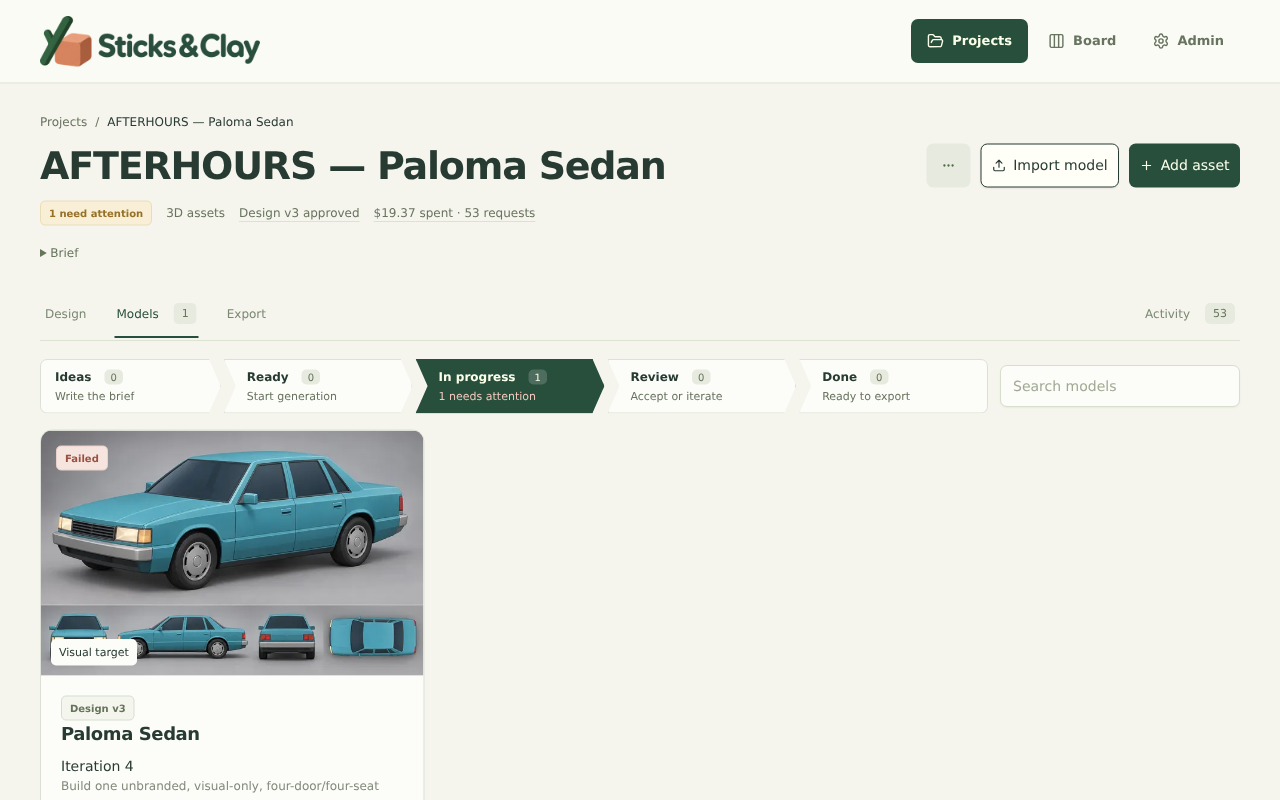
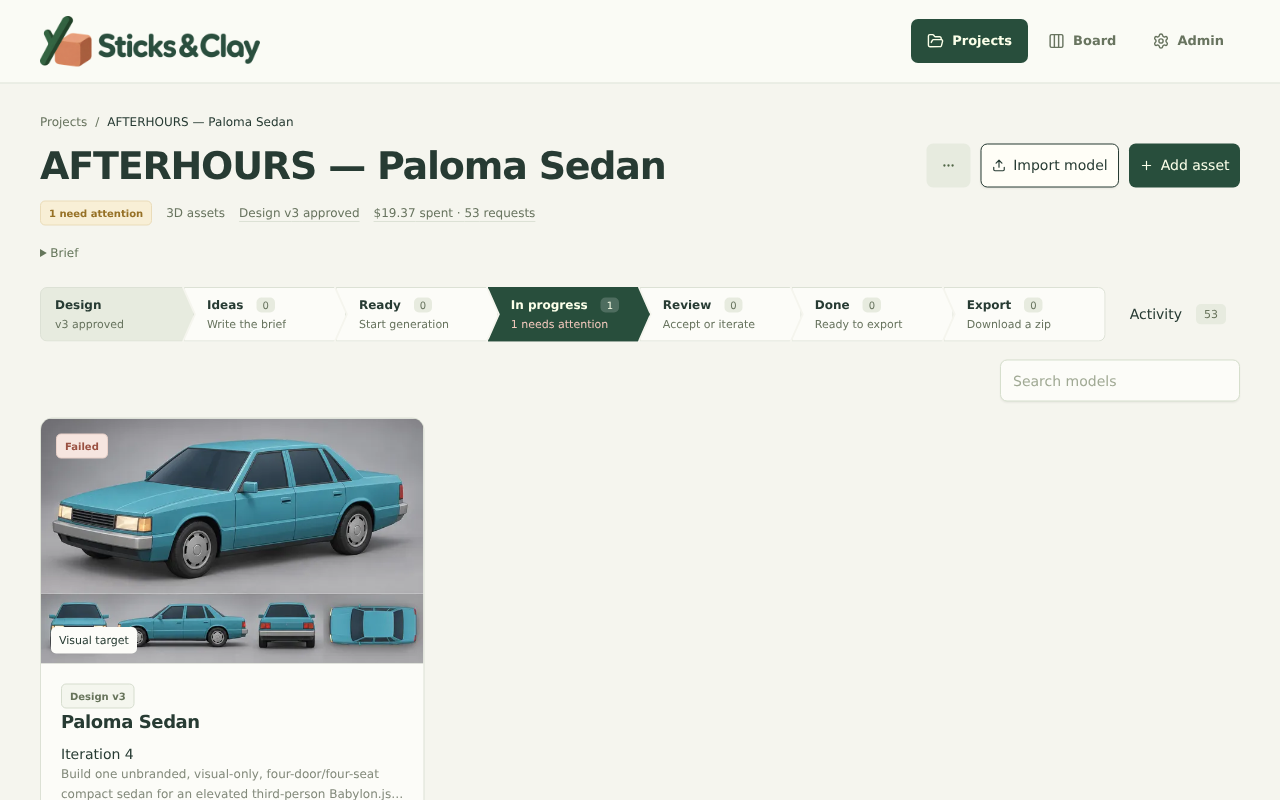
feat(workspace): make the strip the whole workflow
Design and Export join the stage steps so one left-to-right strip
replaces the tab row, with Activity as a button beside it. Steps nest
into each other, and the search field moves to its own row below.

diff --git a/src/routes/projects/$projectId/index.tsx b/src/routes/projects/$projectId/index.tsx
@@ -20,8 +20,8 @@ import { Alert, AlertDescription } from "@/components/ui/alert";
 import { Empty } from "@/components/ui/empty";
 import { Input } from "@/components/ui/input";
 import { Tabs, TabsList, TabsTrigger } from "@/components/ui/tabs";
-import { assetStage, boardStages, type BoardStage } from "@/lib/board";
-import { StageStrip } from "./-components/stage-strip";
+import { assetStage, boardStages, boardStageTitles, type BoardStage } from "@/lib/board";
+import { StageStrip, stageHints } from "./-components/stage-strip";
 import { WorkspaceSkeleton } from "@/components/loading";
 import { AssetImage } from "@/components/asset-image";
 import { LightboxProvider } from "@/components/image-lightbox";
@@ -40,19 +40,21 @@ import { failedBatchFor, pendingCollectionItems } from "./-lib/collection";
 import { History } from "./-components/history";
 import { queueKindLabels } from "@/lib/queue-view";
 
-const tabs = ["design", "assets", "export", "history"] as const;
+// The workflow from left to right, plus the activity log.
+const tabs = ["design", ...boardStages, "export", "history"] as const;
 export type ProjectTab = (typeof tabs)[number];
 const designViews = ["reference", "mockups", "materials"] as const;
 type DesignView = (typeof designViews)[number];
-type Search = { tab?: ProjectTab; view?: DesignView; stage?: BoardStage };
-// Earlier tab reworks: Style became Design; the Mockups, Materials, Ideas, Board, Models and Collection tabs became views and stages.
+type Search = { tab?: ProjectTab; view?: DesignView };
+// Earlier tab reworks: Style became Design; Mockups and Materials became design views; the asset tabs became stages.
 const legacyTabs: Record<string, Search> = {
   style: { tab: "design" },
   mockups: { tab: "design", view: "mockups" },
   materials: { tab: "design", view: "materials" },
-  ideas: { tab: "assets", stage: "idea" },
-  board: { tab: "assets" },
-  models: { tab: "assets" },
+  ideas: { tab: "idea" },
+  assets: {},
+  board: {},
+  models: {},
   collection: { tab: "export" },
 };
 export const Route = createFileRoute("/projects/$projectId/")({
@@ -62,11 +64,12 @@ export const Route = createFileRoute("/projects/$projectId/")({
       view: z.enum(designViews).optional().catch(undefined),
       stage: z.enum(boardStages).optional().catch(undefined),
     })
-    .transform(({ tab, ...rest }): Search =>
-      tab && legacyTabs[tab]
+    .transform(({ tab, stage, ...rest }): Search => {
+      const search: Search = tab && legacyTabs[tab]
         ? { ...rest, ...legacyTabs[tab] }
-        : { ...rest, tab: (tabs as readonly string[]).includes(tab ?? "") ? (tab as ProjectTab) : undefined },
-    ),
+        : { ...rest, tab: (tabs as readonly string[]).includes(tab ?? "") ? (tab as ProjectTab) : undefined };
+      return search.tab ? search : { ...search, tab: stage };
+    }),
   component: ProjectPage,
 });
 function ProjectPage() {
@@ -194,9 +197,10 @@ function ProjectPage() {
   const attention =
     collectionModels.filter(needsAttention).length +
     pending.filter((item) => item.batch.status === "failed").length;
-  // Open on the stage that needs the owner next: running work, then reviews, then unstarted ideas.
-  const stage: BoardStage =
-    search.stage ?? (["progress", "review", "idea", "ready", "done"] as const).find((id) => stageCounts[id]) ?? "idea";
+  // An approved project opens on the stage that needs the owner next: running work, then reviews, then unstarted ideas.
+  const firstStage = (["progress", "review", "idea", "ready", "done"] as const).find((id) => stageCounts[id]) ?? "idea";
+  const activeTab: ProjectTab = search.tab ?? (ready ? firstStage : "design");
+  const stage = activeTab as BoardStage;
   const matches = (text: string) =>
     text.toLowerCase().includes(query.toLowerCase().trim());
   const visibleModels = collectionModels.filter(
@@ -216,21 +220,24 @@ function ProjectPage() {
     }
   }
   const hasCollection = data.assetVersions.length || data.batches.length;
-  // Unapproved projects open on the design; mockups and materials need an approved version.
-  const activeTab: ProjectTab = search.tab ?? (ready ? "assets" : "design");
+  // Mockups and materials need an approved version.
   const designView: DesignView = ready ? search.view ?? "reference" : "reference";
   const designViewList: [DesignView, string, number?][] = [
     ["reference", `Reference · v${p.designVersion}`],
     ...(ready ? [["mockups", "Mockups", (data.mockups || []).length] as [DesignView, string, number]] : []),
     ...(ready && !isGraphics ? [["materials", "Materials"] as [DesignView, string]] : []),
   ];
-  const hasRenders = data.batches.some((b: any) => b.preview);
-  const tabList: [ProjectTab, string, number?][] = [
-    ["design", "Design"],
-    ["assets", isGraphics ? "Graphics" : "Models", ideas.length + collectionModels.length + pending.length],
-    ...(stageCounts.done || hasRenders ? [["export", "Export", stageCounts.done] as [ProjectTab, string, number]] : []),
-    ["history", "Activity", rs.length],
-  ];
+  const steps = [
+    { id: "design", title: "Design", hint: ready ? `v${p.designVersion} approved` : "Awaiting approval" },
+    ...boardStages.map((id) => ({
+      id,
+      title: boardStageTitles[id],
+      count: stageCounts[id],
+      hint: id === "progress" && attention ? (attention === 1 ? "1 needs attention" : `${attention} need attention`) : stageHints[id],
+      warn: id === "progress" && attention > 0,
+    })),
+    { id: "export", title: "Export", count: stageCounts.done, hint: "Download a zip" },
+  ] satisfies { id: ProjectTab; title: string; hint: string; count?: number; warn?: boolean }[];
   const stageEmpty: Record<BoardStage, [string, string]> = {
     idea: [`No ${assetPlural} yet`, `Add a brief for the ${assetPlural} you want, or let AI propose a set from the design.`],
     ready: ["Nothing marked ready", "Mark an idea ready when its brief is final. Starting works from either stage."],
@@ -316,23 +323,14 @@ function ProjectPage() {
           <AlertDescription>{error}</AlertDescription>
         </Alert>
       )}
-      <Tabs
-        value={activeTab}
-        onValueChange={(value) => setTab(value as ProjectTab)}
-        className="workspace-tabs"
-      >
-        <TabsList variant="line" className="tabs" aria-label="Project views">
-          {tabList.map(([id, title, count]) => (
-            <TabsTrigger value={id} key={id} className={id === "history" ? "tab-end" : undefined}>
-              {title}
-              {!!count && (
-                <Badge variant="secondary" className="count">
-                  {count}
-                </Badge>
-              )}
-            </TabsTrigger>
-          ))}
-        </TabsList>
+      <section className="workspace-tabs">
+        <div className="stage-nav">
+          <StageStrip steps={steps} current={activeTab} onSelect={(id) => setTab(id)} />
+          <Button variant="ghost" aria-pressed={activeTab === "history"} onClick={() => setTab("history")}>
+            Activity
+            {!!rs.length && <Badge variant="secondary" className="count">{rs.length}</Badge>}
+          </Button>
+        </div>
         {activeTab === "design" && designViewList.length > 1 && (
           <Tabs value={designView} onValueChange={(value) => setTab("design", { view: value as DesignView })}>
             <TabsList variant="line" className="tabs compact" aria-label="Design views">
@@ -372,7 +370,7 @@ function ProjectPage() {
             onOpenMockups={() => setTab("design", { view: "mockups" })}
             onSaved={async (approved) => {
               await load();
-              if (approved) setTab("assets");
+              if (approved) setTab(firstStage);
             }}
           />
         )}
@@ -453,19 +451,18 @@ function ProjectPage() {
           </>
         )}
         {activeTab === "history" && <History runs={rs} models={data.assetVersions} />}
-        {activeTab === "assets" && (
+        {(boardStages as readonly string[]).includes(activeTab) && (
           <>
-            <div className="collection-toolbar">
-              <StageStrip stage={stage} counts={stageCounts} attention={attention} onSelect={(stage) => setTab("assets", { stage })} />
-              {stageCounts[stage] > 0 && !["idea", "ready"].includes(stage) && (
+            {stageCounts[stage] > 0 && !["idea", "ready"].includes(stage) && (
+              <div className="collection-toolbar">
                 <Input
                   aria-label="Search collection"
                   placeholder={`Search ${assetPlural}`}
                   value={query}
                   onChange={(event) => setQuery(event.target.value)}
                 />
-              )}
-            </div>
+              </div>
+            )}
             {!stageCounts[stage] ? (
               <Empty className="empty">
                 <h2>{stageEmpty[stage][0]}</h2>
@@ -559,7 +556,7 @@ function ProjectPage() {
                         onPreview={setPreviewModelId}
                         onRefresh={load}
                         onError={setError}
-                        onReturnedToIdea={() => setTab("assets", { stage: "idea" })}
+                        onReturnedToIdea={() => setTab("idea")}
                       />
                     );
                   })}
@@ -576,7 +573,7 @@ function ProjectPage() {
             )}
           </>
         )}
-      </Tabs>
+      </section>
       <GenerationDialog
         projectId={projectId}
         designVersion={p.designVersion}
@@ -587,7 +584,7 @@ function ProjectPage() {
         onRefresh={load}
         onSaved={async () => {
           await load();
-          setTab("assets", { stage: "idea" });
+          setTab("idea");
         }}
       />
     </main>

diff --git a/src/styles.css b/src/styles.css
@@ -1863,15 +1863,19 @@ a.board-card-title:hover { text-decoration: underline; }
 .overview-brief { margin: 8px 0 0; padding: 0; border: 0; font-size: 12px; color: var(--muted-foreground); max-width: 760px; }
 .overview-brief summary { cursor: pointer; min-height: 32px; align-content: center; }
 .overview-description { display: block; margin-top: 8px; font-size: 13px; line-height: 1.8; }
-.collection-toolbar { display: flex; flex-wrap: wrap; align-items: center; justify-content: space-between; gap: 12px; margin: 18px 0 16px; }
+.collection-toolbar { display: flex; flex-wrap: wrap; align-items: center; justify-content: flex-end; gap: 12px; margin: 18px 0 16px; }
 .collection-toolbar input { width: 240px; min-height: 42px; background: var(--card); }
 /* Asset stages as chevron steps; the pressed step is the listed stage. */
-.stage-strip { display: flex; flex: 1 1 560px; gap: 3px; min-width: 0; }
+.stage-nav { display: flex; flex-wrap: wrap; align-items: center; justify-content: space-between; gap: 10px; margin: 18px 0 0; }
+.stage-nav > button { min-height: 44px; }
+.stage-nav > button[aria-pressed="true"] { background: var(--secondary); }
+.stage-strip { display: flex; flex: 1 1 760px; min-width: 0; }
 .stage-strip button { flex: 1; display: flex; flex-direction: column; align-items: flex-start; gap: 2px; min-width: 0; min-height: 52px; padding: 8px 14px 8px 22px; border: 1px solid var(--border); border-radius: 0; background: var(--card); color: var(--foreground); font: inherit; text-align: left; cursor: pointer; clip-path: polygon(0 0, calc(100% - 12px) 0, 100% 50%, calc(100% - 12px) 100%, 0 100%, 12px 50%); }
+.stage-strip button + button { margin-left: -10px; }
 .stage-strip button:first-child { padding-left: 14px; border-radius: 7px 0 0 7px; clip-path: polygon(0 0, calc(100% - 12px) 0, 100% 50%, calc(100% - 12px) 100%, 0 100%); }
 .stage-strip button:last-child { border-radius: 0 7px 7px 0; clip-path: polygon(0 0, 100% 0, 100% 100%, 0 100%, 12px 50%); }
 .stage-strip button:hover { background: var(--secondary); }
-.stage-strip button:focus-visible { outline: 2px solid var(--ring); outline-offset: -3px; }
+.stage-strip button:focus-visible { position: relative; z-index: 1; outline: 2px solid var(--ring); outline-offset: -3px; }
 .stage-strip button[aria-pressed="true"] { background: var(--primary); border-color: var(--primary); color: var(--primary-foreground); }
 .stage-strip strong { display: flex; align-items: center; gap: 6px; font-size: 12px; font-weight: 600; }
 .stage-strip small { max-width: 100%; overflow: hidden; text-overflow: ellipsis; white-space: nowrap; font-size: 11px; color: var(--muted-foreground); }
@@ -1882,6 +1886,7 @@ a.board-card-title:hover { text-decoration: underline; }
 .stage-strip button[aria-pressed="true"] .attention { color: #f3c9bd; opacity: 1; }
 @media (max-width: 600px) {
   .stage-strip { flex-basis: 100%; overflow-x: auto; padding-bottom: 4px; }
+  .stage-nav > button { width: 100%; }
   .stage-strip button { flex: 0 0 150px; min-height: 48px; }
 }
 .card-actions { display: flex; flex-wrap: wrap; gap: 6px; padding-top: 12px; border-top: 1px solid var(--border); }

diff --git a/src/routes/projects/$projectId/-components/stage-strip.tsx b/src/routes/projects/$projectId/-components/stage-strip.tsx
@@ -1,7 +1,7 @@
 import { useEffect, useRef } from "react";
-import { boardStages, boardStageTitles, type BoardStage } from "@/lib/board";
+import type { BoardStage } from "@/lib/board";
 
-const hints: Record<BoardStage, string> = {
+export const stageHints: Record<BoardStage, string> = {
   idea: "Write the brief",
   ready: "Start generation",
   progress: "Generating",
@@ -9,24 +9,21 @@ const hints: Record<BoardStage, string> = {
   done: "Ready to export",
 };
 
-/** The asset lifecycle as left-to-right steps; the selected step decides which assets are listed. */
-export function StageStrip({ stage, counts, attention, onSelect }: {
-  stage: BoardStage;
-  counts: Record<BoardStage, number>;
-  attention: number;
-  onSelect: (stage: BoardStage) => void;
+/** The project workflow as left-to-right steps; the pressed step is the open view. */
+export function StageStrip<Id extends string>({ steps, current, onSelect }: {
+  steps: { id: Id; title: string; hint: string; count?: number; warn?: boolean }[];
+  current: string;
+  onSelect: (id: Id) => void;
 }) {
   const strip = useRef<HTMLDivElement>(null);
-  // On phones the strip scrolls sideways; keep the pressed stage visible.
+  // On phones the strip scrolls sideways; keep the pressed step visible.
   useEffect(() => {
     strip.current?.querySelector<HTMLElement>('[aria-pressed="true"]')?.scrollIntoView({ block: "nearest", inline: "nearest" });
-  }, [stage]);
-  return <div className="stage-strip" role="group" aria-label="Asset stages" ref={strip}>
-    {boardStages.map((id) => <button type="button" key={id} aria-pressed={stage === id} onClick={() => onSelect(id)}>
-      <strong>{boardStageTitles[id]} <span className="count">{counts[id]}</span></strong>
-      {id === "progress" && attention
-        ? <small className="attention">{attention === 1 ? "1 needs attention" : `${attention} need attention`}</small>
-        : <small>{hints[id]}</small>}
+  }, [current]);
+  return <div className="stage-strip" role="group" aria-label="Project workflow" ref={strip}>
+    {steps.map((step) => <button type="button" key={step.id} aria-pressed={current === step.id} onClick={() => onSelect(step.id)}>
+      <strong>{step.title} {step.count !== undefined && <span className="count">{step.count}</span>}</strong>
+      <small className={step.warn ? "attention" : undefined}>{step.hint}</small>
     </button>)}
   </div>;
 }

diff --git a/src/routes/projects/$projectId/assets/$assetId/index.tsx b/src/routes/projects/$projectId/assets/$assetId/index.tsx
@@ -38,7 +38,7 @@ function AssetPage() {
   const asset = data?.assets.find((asset) => asset.id === assetId);
   const versions = data?.assetVersions.filter((version) => version.assetId === assetId).sort((a, b) => new Date(b.createdAt).getTime() - new Date(a.createdAt).getTime()) ?? [];
   return <main>
-    <Link to="/projects/$projectId" params={{ projectId }} search={{ tab: "assets" }}>Back to project</Link>
+    <Link to="/projects/$projectId" params={{ projectId }} search={{}}>Back to project</Link>
     {error && <Alert variant="destructive"><AlertDescription>{error} <Button variant="ghost" size="sm" onClick={() => refresh().catch((error) => setError(error instanceof Error ? error.message : "Could not load this asset"))}>Retry</Button></AlertDescription></Alert>}
     {!data && !error && <WorkspaceSkeleton />}
     {data && !asset && <p className="muted mt-6">Asset not found in this project.</p>}

diff --git a/src/routes/projects/$projectId/models/$modelId/-components/graphic-detail.tsx b/src/routes/projects/$projectId/models/$modelId/-components/graphic-detail.tsx
@@ -137,7 +137,7 @@ function GraphicDetailContent({ data, projectId, modelId, reload }: {
           )}
           {!archived && (
             <ReturnToIdea id={modelId} name={name} noun="graphic" canDelete={!working}
-              onDone={() => navigate({ to: "/projects/$projectId", params: { projectId }, search: { tab: "assets", stage: "idea" } })} />
+              onDone={() => navigate({ to: "/projects/$projectId", params: { projectId }, search: { tab: "idea" } })} />
           )}
           {!archived && (
             <DeleteAsset id={modelId} name={name} disabled={working}

diff --git a/src/routes/projects/$projectId/models/$modelId/index.tsx b/src/routes/projects/$projectId/models/$modelId/index.tsx
@@ -326,7 +326,7 @@ function ModelPage() {
                   name={name}
                   noun="model"
                   canDelete={["done", "failed", "cancelled"].includes(model.status)}
-                  onDone={() => navigate({ to: "/projects/$projectId", params: { projectId }, search: { tab: "assets", stage: "idea" } })}
+                  onDone={() => navigate({ to: "/projects/$projectId", params: { projectId }, search: { tab: "idea" } })}
                 />
               )}
               {!data.project.archivedAt && (

diff --git a/design.md b/design.md
@@ -54,7 +54,7 @@ Place alert text in the shadcn AlertDescription component so it uses the content
 
 - **Project list:** “Projects” with a count and a New project button; an empty workspace gets one sentence explaining the flow. Search, active/attention filters, and newest/name sorting sit above the three-column card grid. Setup offers visible 3D assets / Graphics / SVG files radio choices. Cards show their collection type.
 - **Project cards:** a 16:9 cover showing the newest completed project photograph (reference image fallback; graphics and references keep their full image with contain sizing and padding). Status sits top-left, the asset type bottom-left and the actions menu top-right, outside the link. The card meta line carries the date and the Generated collection / Reference image label. Status describes queued, active, attention or completed work, separately from design approval; unsent drafts say Draft. Show asset/completion counts, name, two-line description (an italic placeholder when there is no brief), and a rounded estimated cost. The Show filter adds Archived; archived projects are hidden from All and from the count. When no reference exists, use the existing soft sage gradient and thin Layers icon.
-- **Project workspace:** breadcrumb, project name, a meta row (status badge, asset type, design version and approval, estimated cost; the last two jump to their tabs), a collapsed brief, an actions menu (Archive or Unarchive, and Delete while nothing has been generated) and one primary action (Add ideas, or Review design before approval). Underlined tabs follow the project's phases from left to right: Design, Models (Graphics for 2D projects), Export and a right-aligned Activity, with counts, living in the URL as `?tab=`. Design holds compact secondary tabs for the Reference document, Mockups and (3D only) Materials, kept in `?view=`; before approval only the reference shows. Models holds the stage strip described under Model and graphic ideas, with the selected stage in `?stage=`, and is the default tab once the design is approved. Export appears once an asset is done or a batch has collection renders (3D lineup and demo scene, or the 2D sheet) and lists those renders below the zip list. Old tab links (Style, Mockups, Materials, Ideas, Board, Models, Collection) map onto the new tabs, views and stages. There is no Style tab: the reference images (which mockups can join) are the visual direction. An archived project stays readable behind a notice, with generation, mockups and design updates blocked.
+- **Project workspace:** breadcrumb, project name, a meta row (status badge, asset type, design version and approval, estimated cost; the last two jump to their tabs), a collapsed brief, an actions menu (Archive or Unarchive, and Delete while nothing has been generated) and one primary action (Add ideas, or Review design before approval). A workflow strip of nested chevron steps replaces the tab row: Design, Ideas, Ready, In progress, Review, Done and Export from left to right, each with a one-line hint (Design shows its version and approval, In progress shows how many assets need attention, Export shows the done count) and the stage counts, plus a right-aligned Activity button with its count. The pressed step lives in the URL as `?tab=`. Design holds compact secondary tabs for the Reference document, Mockups and (3D only) Materials, kept in `?view=`; before approval only the reference shows. An approved project opens on the first step with work in the order In progress, Review, Ideas, Ready, Done; an unapproved one opens on Design. Export lists the zip export and, below it, any collection renders (3D lineup and demo scene, or the 2D sheet). Old tab links (Style, Mockups, Materials, Ideas, Board, Models, Collection, Assets with a stage) map onto the new steps and views. There is no Style tab: the reference images (which mockups can join) are the visual direction. An archived project stays readable behind a notice, with generation, mockups and design updates blocked.
 - **Models:** 240px cover images with an opt-in inline 3D quick preview, readable status, asset name, brief, triangle/cost metadata, and separate GLB/source downloads. Only one card preview is active at a time; collection renders sit in a collapsed Collection studio section below model cards when available.
 - **Graphics:** preserve the full square, portrait, or landscape image with contain sizing rather than cropping it into the model-card ratio. Generation asks for a canvas per batch. Pixel-art projects show their images enlarged without smoothing (`image-rendering: pixelated`, via the `pixelated` prop on `AssetImage` and the lightbox) so every cell stays a sharp square; their files are tiny, so they are stored and previewed losslessly. Cards expose the PNG or SVG download, generation status, brief, cost, and a link to activity. Do not show Blender, triangle, judge-round, 3D preview, or collection-scene controls for graphic projects.
 - **Design reference:** a studio split like the model page: the Design chat on the left (sticky; stacked below the document on phones) and the document with its reference sidebar on the right. The new project's brief is design v1 verbatim, with no AI processing, so a blank brief starts from the project name. The chat lists every revision as a message with its author, approval state and a Revert to this button (reverting writes a new revision) and a collapsed comparison with the current version. An AI draft waits as the current revision with Accept (approve) and Discard (revert to the previous approved version). The composer offers Change (apply a request), Improve (AI tightens the whole design) and Mockups (jump to the Mockups tab). Provider failures show plain-language text with Try again, Edit prompt and, for usage limits, a link to Settings. History actions wait while there are unsaved edits, a running update or a stale document. The document keeps Edit, Save as draft, Save and approve (or Approve when nothing changed), Discard edits and revision restoration; saved drafts need approval and existing batches retain their snapshots. Readable Markdown with section links; the editable source is monospace and preserves unsaved text while editing or previewing.
@@ -108,9 +108,9 @@ Every mockup can be revised (the chat composer then shows it as the base and the
 
 ## Model and graphic ideas
 
-The collection's Add ideas dialog captures the brief (required), an optional title, requested count, review rounds and sprite or canvas settings. Every idea has a title: the owner's own, or one that a small paid AI request writes from the brief when the field is left empty (recorded in Activity as Idea title draft). A provider failure rejects the save with its message instead of storing an untitled idea; typing a title avoids the request. Edits keep the saved title, and clearing it writes a new one from the current brief. Ideas saved before titles existed show the first line of their brief until they are edited. With an approved design its primary action is Save and start generation; Save for later keeps the idea without queueing anything. Before approval only Save idea is offered. AI brief drafting remains optional and paid. Saved ideas appear in a compact table in the Ideas and Ready stages of the Models tab: one row per idea with its title, the first line of its brief beneath it (omitted when it would repeat the title), count, settings and Start, Edit and Discard actions. Saving or starting opens the Ideas stage. Edit opens the idea dialog with its saved brief and settings; Save changes updates only an unstarted idea and does not queue generation. Starting requires an approved design and snapshots the design and collection guidance at that time. A started idea moves into the asset collection as a queued batch; repeated starts reuse that batch. Discard removes only an unstarted idea.
+The collection's Add ideas dialog captures the brief (required), an optional title, requested count, review rounds and sprite or canvas settings. Every idea has a title: the owner's own, or one that a small paid AI request writes from the brief when the field is left empty (recorded in Activity as Idea title draft). A provider failure rejects the save with its message instead of storing an untitled idea; typing a title avoids the request. Edits keep the saved title, and clearing it writes a new one from the current brief. Ideas saved before titles existed show the first line of their brief until they are edited. With an approved design its primary action is Save and start generation; Save for later keeps the idea without queueing anything. Before approval only Save idea is offered. AI brief drafting remains optional and paid. Saved ideas appear in a compact table in the Ideas and Ready steps of the workflow strip: one row per idea with its title, the first line of its brief beneath it (omitted when it would repeat the title), count, settings and Start, Edit and Discard actions. Saving or starting opens the Ideas stage. Edit opens the idea dialog with its saved brief and settings; Save changes updates only an unstarted idea and does not queue generation. Starting requires an approved design and snapshots the design and collection guidance at that time. A started idea moves into the asset collection as a queued batch; repeated starts reuse that batch. Discard removes only an unstarted idea.
 
-Every idea and asset has one stage: Ideas, Ready, In progress, Review and Done. Ready and Done are the owner's markers, not generation steps. The Models tab shows the stages as a strip of chevron steps with counts and a one-line hint (In progress shows how many need attention instead); the pressed step lists only that stage, as the ideas table or the card grid with search, and the tab opens on the first stage with work in the order In progress, Review, Ideas, Ready, Done. Each empty stage explains what moves an asset there. On phones the strip scrolls sideways. Mark ready shows a green Ready pill on the idea row and moves it to the Ready stage; it never starts paid work, and starting stays available from either stage. A started idea is replaced by its assets. An asset is In progress until it finishes (failures, cancellations and targets awaiting approval stay there with their own badge and recovery action), then waits in Review until the owner accepts it. Accept moves it to Done without changing the AI verdict; Back to review undoes it. Iterate creates a new attempt in the same collection entry, so the entry returns to In progress and then Review while the accepted attempt stays in history. The newest attempt of each entry decides its stage.
+Every idea and asset has one stage: Ideas, Ready, In progress, Review and Done. Ready and Done are the owner's markers, not generation steps. The workflow strip's pressed stage lists only that stage, as the ideas table or the card grid with a search field on its own row beneath the strip. Each empty stage explains what moves an asset there. On phones the strip scrolls sideways and keeps the pressed step in view. Mark ready shows a green Ready pill on the idea row and moves it to the Ready stage; it never starts paid work, and starting stays available from either stage. A started idea is replaced by its assets. An asset is In progress until it finishes (failures, cancellations and targets awaiting approval stay there with their own badge and recovery action), then waits in Review until the owner accepts it. Accept moves it to Done without changing the AI verdict; Back to review undoes it. Iterate creates a new attempt in the same collection entry, so the entry returns to In progress and then Review while the accepted attempt stays in history. The newest attempt of each entry decides its stage.
 
 A generated asset can be returned to ideas from its collection card, its Board card and its model or graphic page (a lightbulb button, hidden on archived projects). The dialog creates a new, unstarted idea and offers an unchecked Also delete this model or graphic option. The idea is the one the entry was started from, looked up through the first attempt so iterations share it: same title, brief, settings and Ready marker, with the original idea left as it was. Assets that never came from an idea (direct generation, forks, imports) get one built from the asset: its name as the title, its own prompt as the brief, one deliverable and its batch's settings. No AI request is made. Deleting is one step with creating the idea, so a refused delete (the asset is still generating) leaves no idea behind; the checkbox is disabled until it has finished. Board idea cards show the count only when it is more than 1.
 
